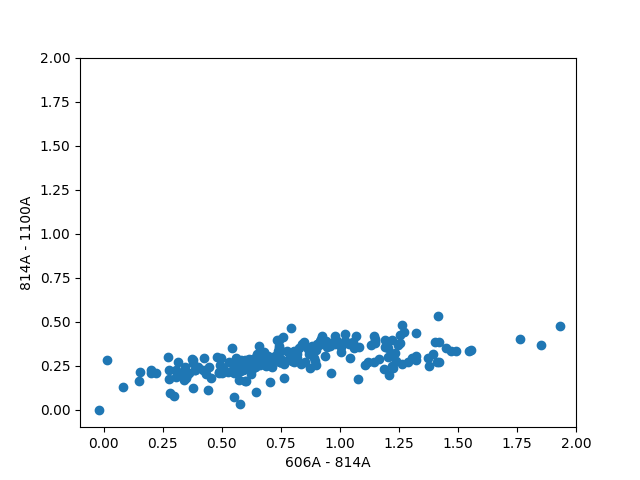
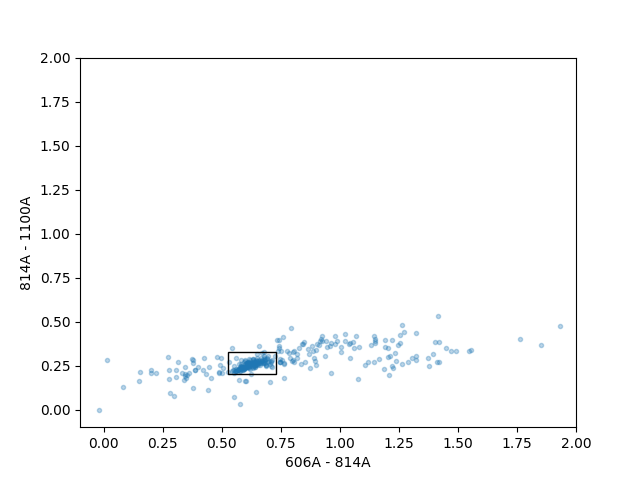
Over plot fits file image with selected cluster member objects. Draw box around selected colou-colour region

Changed region(s): [[0.1562, 0.6562, 0.75, 0.8438], [0.7812, 0.6562, 0.9062, 0.75], [0.125, 0.8438, 0.1875, 0.875]]

diff --git a/lensing/colour_colour_plot.py b/lensing/colour_colour_plot.py
@@ -2,7 +2,10 @@ import os
 import pandas as pd
 import numpy as np
 import matplotlib.pyplot as plt
+import matplotlib.patches as patches
 from itertools import takewhile
+
+from image_overplot_contours import plot_image
 
 SCRIPT_DIR = os.path.dirname(os.path.realpath(__file__))
 ROOT_DIR = os.path.join(SCRIPT_DIR, '..')
@@ -22,14 +25,27 @@ def read_sextractor_output(filepath):
     return sex
 
 
-def get_positions(filepath):
+def get_positions(filepath, colour1=None, colour2=None, colour_limits=None, fits_file=None, fig_dir='.'):
     sex = read_sextractor_output(filepath)
     x = sex.X_IMAGE
     y = sex.Y_IMAGE
 
-    # plt.figure()
-    # plt.scatter(x, y)
+    plt.figure()
+    if fits_file is not None:
+        plot_image(fits_file, vmin=0, vmax=0.35)
+    plt.scatter(x, y, marker='o', c='b', alpha=0.2)
 
+    if colour1 is not None:
+        (x1, y1), (x2, y2) = colour_limits
+        mask = (colour1 > x1) & (colour1 < x2) & (colour2 > y1) & (colour2 < y2)
+        x = x[mask]
+        y = y[mask]
+
+    plt.scatter(x, y, marker='+', c='g', alpha=0.8)
+
+    plt.xlim(min(x), max(x))
+    plt.ylim(min(x), max(y))
+    plt.savefig(os.path.join(fig_dir, 'cluster_members'))
     return x, y
 
 
@@ -42,9 +58,9 @@ def get_colour(filepath1, filepath2):
     return colour
 
 
-def plot_colour_colour(colour1, colour2, name1='', name2='', fig_dir='.', fpathpos=None):
-    plt.figure()
-    plt.scatter(colour1, colour2)
+def plot_colour_colour(colour1, colour2, name1='', name2='', fig_dir='.', colour_limits=None, fpathpos=None):
+    fig, ax = plt.subplots(1)
+    ax.scatter(colour1, colour2, marker='.', alpha=0.3)
 
     if fpathpos is not None:
         xpos, ypos = get_positions(fpathpos)
@@ -57,11 +73,15 @@ def plot_colour_colour(colour1, colour2, name1='', name2='', fig_dir='.', fpathp
                 bbox=dict(boxstyle='round,pad=0.5', fc='yellow', alpha=0.5),
                 arrowprops=dict(arrowstyle='->', connectionstyle='arc3,rad=0'))
 
-    plt.xlabel(name1)
-    plt.ylabel(name2)
-    plt.xlim(-0.1, 2)
-    plt.ylim(-0.1, 2)
-    plt.savefig(os.path.join(fig_dir, 'colour_colour_plot.png'))
+    if colour_limits is not None:
+        (x1, y1), (x2, y2) = colour_limits
+        rect = patches.Rectangle(xy=(x1, y1), width=x2-x1, height=y2-y1, fill=False)
+        ax.add_patch(rect)
+
+    ax.set(xlabel=name1, ylabel=name2)
+    ax.set_xlim(-0.1, 2)
+    ax.set_ylim(-0.1, 2)
+    fig.savefig(os.path.join(fig_dir, 'colour_colour_plot.png'))
 
 
 def main():
@@ -73,10 +93,13 @@ def main():
     colour1 = get_colour(fpath606, fpath814)
     colour2 = get_colour(fpath814, fpath110)
 
-    plot_colour_colour(colour1, colour2, name1='606A - 814A', name2='814A - 1100A', fig_dir=fig_dir)#, fpathpos=fpath110)
-    get_positions(fpath110)
+    colour_limits = [(0.525, 0.2), (0.73, 0.33)]
+
+    plot_colour_colour(colour1, colour2, name1='606A - 814A', name2='814A - 1100A', fig_dir=fig_dir, colour_limits=colour_limits)#, fpathpos=fpath110)
+    get_positions(fpath110, colour1, colour2, colour_limits=colour_limits, fits_file=os.path.join(ROOT_DIR, 'data/MACS0451/MACS0451_F110W.fits'))
     plt.show()
 
 
 if __name__ == '__main__':
     main()
+    # sex MACS0451_F110W.fits,MACS0451_F814W.fits -CATALOG_NAME 'sex_814.asc'
